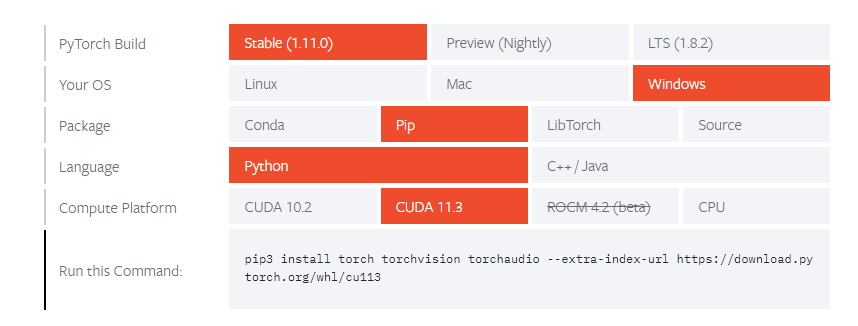
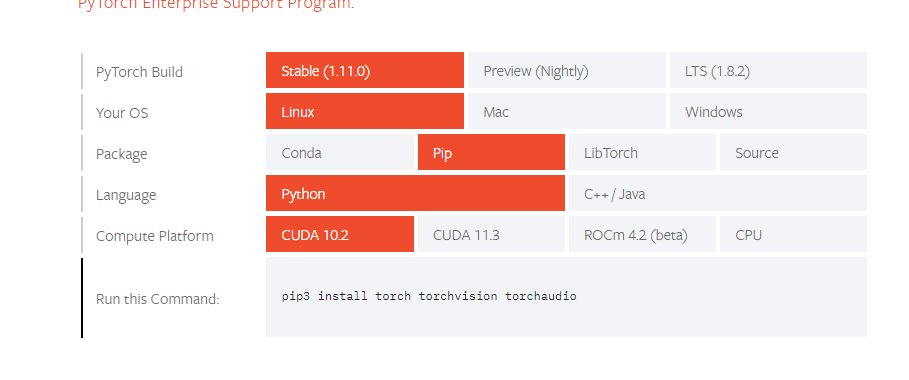
添加数据集制作方法

diff --git a/docs/soft/maixpy3/zh/usage/train_AI/ready.md b/docs/soft/maixpy3/zh/usage/train_AI/ready.md
@@ -3,10 +3,7 @@
 | 时间 | 负责人 | 更新内容 | 备注 |
 | --- | --- | --- | :---: |
 | 2022年1月22日 | Rui | 编写初稿文档 | ---- |
-| 2022年3月26日 | Rui | 添加 windows 10 训练环境配置过程 | ---- |
 
-> **注意**：
->  windows10 的训练环境需要配合 wsl 进行使用，关于 wsl 的安装和使用，在这里不进行说明，请自行百度查询相关教程
 
 由于训练需要用到显卡，关于安装显卡驱动、CUDA、CUDNN 请自行百度查阅安装，本文不做详细说明。（ADM 显卡或者无显卡的，可以使用 CPU 进行训练）
 
@@ -20,31 +17,29 @@
 - pycocotools
 - opencv
 
-> 下载安装包，可以通过在安装指令后面添加 `-i https://mirrors.ustc.edu.cn/pypi/web/simple` 来使用中科大源进行加速
+> 下载安装包，可以通过在安装指令后面添加 `-i https://mirrors.ustc.edu.cn/pypi/web/simple` 来使用中科大 pypi 源进行加速
 
 ### 安装 PyToch
 
-进入 Pytorch 下载帮助[页面](https://pytorch.org/get-started/locally/)，根据自己所用系统的环境情况，选择对应的 CUDA 版本和安装包的类型，这里所选用的是 CUDA 11.3、windows 系统、稳定版、pip包（30 系列显卡只能使用11.2以上的版本）
+进入 Pytorch 下载帮助[页面](https://pytorch.org/get-started/locally/)，根据自己所用系统的环境情况，选择对应的 CUDA 版本和安装包的类型，这里所选用的是 CUDA 10.2、 Linux 系统、稳定版、pip包（30 系列显卡只能使用11.2以上的版本）
 ![pytoch-install](./../asserts/pytorch-install.png)
 
-    pip install torch torchvision torchaudio --extra-index-url https://download.pytorch.org/whl/cu113
+    pip3 install torch torchvision torchaudio
 
 
 ### 安装 torchsummary、pycocotools
 
 然后再通过 pip 进行安装 torchsummary
 
-    pip install torchsummary pycocotools
-
-> 如果 windows 系统下安装报错时，则需要使用 pip 安装 cython
+    pip3 install torchsummary pycocotools
 
 ### 安装 Opencv
 
-    pip install opencv-python opencv-contrib-python
+    pip3 install opencv-python opencv-contrib-python
 
 ##  onnx2ncnn 模型转换工具
 
-PyTorch 不能直接将模型导出成 ncnn 格式，需要使用 onnx2ncnn 转换工具进行转换，需要用户自行去编译出对应的可执行文件。windows 的用户需要通过使用 WSL 来进行编译，可以自行学习[如何使用 vs2017](https://github.com/Tencent/ncnn/wiki/how-to-build#build-for-windows-x64-using-visual-studio-community-2017) 进行编译。具体的编译步骤如下
+PyTorch 不能直接将模型导出成 ncnn 格式，需要使用 onnx2ncnn 转换工具进行转换，需要用户自行去编译出对应的可执行文件。具体的编译步骤如下
 
 1. 安装编译环境所需要用到的软件
 

diff --git a/docs/soft/maixpy3/zh/usage/train_AI/data.md b/docs/soft/maixpy3/zh/usage/train_AI/data.md
@@ -1,0 +1,38 @@
+# 制作数据集
+
+目前提供了 Resnet18 和 yolov2 的训练方式，就需要制作这些网络模型的数据集
+
+## Resnet18 数据集
+
+Resnet18 是一个用来分类的网络模型，只能将输入的图像分类到一个类别，所以数据集相对于简单很多。
+
+1. 将需要进行分类识别的物品进行多个角度和多种背景环境下进行拍摄
+2. 把图片转换成大小为**224\*224**
+3. 新建以类别命名的文件夹
+4. 将转换好的图片存放到对应的文件夹中
+
+![resnet-data](./dnn/resnet-data.png)
+
+## YoloV2 数据集
+
+YoloV2是用来目标检测的网络模型结构，所以制作数据集的时候需要对图像做对应的标记。
+
+### 准备
+1. 下载[labelImg](https://github.com/tzutalin/labelImg/releases)
+2. 把需要标注的图片转换成 **224\*224**，并分类到各自的文件夹中
+3. 新建一个文件夹来用于存放标记信息
+
+### 开始标注
+
+将下载的压缩包，解压到任意的位置，但是路径不能有中文，否则会启动不了。运行后界面如下：
+
+![](./../asserts/labelimg.png)
+
+选择左边的 `Open Dir` 中打开图片的文件夹，选择 `Change Save Dir` 进行保存标记信息。选择左边的命令按钮 Create nRectBox，也可以用快捷键 W 创建一个新的物体标注包围矩形。
+
+![](./../asserts/labelimg-1.png)
+
+在右边选择所框选的类别，通过快捷键 S 保存标记的内容，会在保存路径下生成一个xml文件，每个图形对应一个文件，里面记录了物体的包围矩形的位置。使用快捷键 D 切换到下一张图片继续标记，同一张图片中，可以同时标记多个类别。
+
+> 如果不能使用 A、D切换图片的时候，这是图片的路径包含了中文导致的。
+> 可以通过在 View 中打开自动保存模式，发现不能自动保存的时候，需要手动重启一下自动保存模式

diff --git a/docs/soft/maixpy/zh/course/ai/train/local_windows_2.md b/docs/soft/maixpy/zh/course/ai/train/local_windows_2.md
@@ -62,26 +62,18 @@
 
 ## 常见问题
 
-### 训练过程中发现没有使用GPU进行训练的
+### 训练过程中判断是否使用 GPU
 
-在命令行中输入python，然后再输入
+1. 启动训练的查看是否出现答应出这些信息，并都是和下图框出来的一样的
+    ![6.png](./../../../../assets/AI/GPU.png)
+    如果没有，则说明你的前面的cuda和cudnn环境没有安装好，请将所有关于英伟达的软件驱动进行卸载，是卸载！！！不是将文件删除。然后再重新进行cuda和cudnn的环境配置。
+2. 在任务管理器中查看，GPU 的显存有没有被使用到，而不是看显卡的利用率
 
-```python
-import tensorflow as tf
-tf.test.is_gpu_available()
-```
-
-![6.png](https://bbs.sipeed.com/storage/attachments/2021/07/21/i7d0N1b4QdKbXFI74qbDpkoOpSPP64EotABFrXUE_thumb.png "1462")
-
-检查一下这些文件有没有找到，和最后一行是否打印出True
-![]()
-如果没有，则说明你的前面的cuda和cudnn环境没有安装好，请将所有关于英伟达的软件驱动进行卸载，是卸载！！！不是将文件删除。然后再重新进行cuda和cudnn的环境配置。
+3. 训练刚开始出现的 no GPU，will use CPU 只是一个提示信息而已，并不是没有使用到
 
 ### 训练中出现Internal: no kernel image is available for execution on the device
 
-手动安装kernel可以解决
-
-    pip install kernel
+环境需要重新安装，tensorflow安装版本没有对上
 
 ### 出现failed: TrainFailReason.ERROR_PARAM, datasets not valid: datasets format error: datasets error, not support format, please check
 

diff --git a/docs/soft/maixpy3/zh/usage/train_AI/train_resnet.md b/docs/soft/maixpy3/zh/usage/train_AI/train_resnet.md
@@ -4,7 +4,7 @@
 | --- | --- | --- | :---: |
 | 2022年1月22日 | dianjixz | 编写初稿文档 | 训练教程只能在 Linux 系统中运行，<br>并只能部署到 MaixII-Dock 开发板上运行，<br>文档还需要二次整理 |
 
-> Windows 系统下均将 python3 修改成 python 再运行
+
 > 临时工程文件获取：https://github.com/dianjixz/v831_restnet18
 
 
@@ -51,7 +51,7 @@
 
 - 例如：data文件夹内为
 ![resnet-data](./dnn/resnet-data.png)
-则需要将 `classes_label.py` 修改成
+则将 `classes_label.py` 修改成
     ```python
 labels = ["mouse","sipeed_logo"]
     ```

diff --git a/docs/soft/maixpy3/zh/usage/train_AI/train_yolov2.md b/docs/soft/maixpy3/zh/usage/train_AI/train_yolov2.md
@@ -41,7 +41,7 @@ YOLOv2 默认使用 voc 格式的数据集,文件夹取名为 custom 放到 data
 │   ├── ImageSets		#训练参数划分
 │   │    └── Main
 │   │         ├── train.txt
-│   │         └── val.txt
+│   │         └── val.txt/
 │   ├── JPEGImages		#训练图片
 ~~~
 
